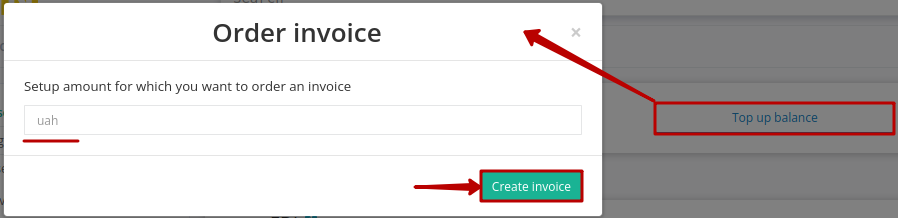
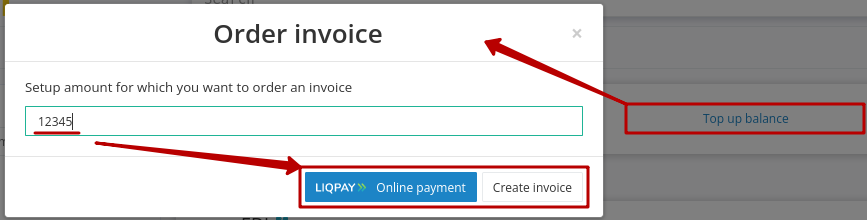
card_pay

diff --git a/docs/Personal_Cabinet/PCInstruction.rst b/docs/Personal_Cabinet/PCInstruction.rst
@@ -246,6 +246,8 @@ It is possible to make a purchase by paying an invoice (section `"Invoices" <htt
 
    The block will be removed if there are enough funds on the balance to cover the Additional Transaction / Tariff (after that it is possible to get 2-day access to services before an invoice payment again).
 
+   2 days of loyalty (access) are not activated for invoices issued as part of the automatic prolongation procedure.
+
 .. warning::
    When replenishing the balance, if its amount exceeds the cost of services / services that **"Awaiting payment"**, these funds are debited automatically!
 
@@ -398,6 +400,8 @@ The purchase of an additional tariff package is carried out through **"Cart"** (
 
    The block will be removed if there are enough funds on the balance to cover the Additional Transaction / Tariff (after that it is possible to get 2-day access to services before an invoice payment again).
 
+   2 days of loyalty (access) are not activated for invoices issued as part of the automatic prolongation procedure.
+
 .. _continue-tariff:
 
 **1.2.3.2 Prolong the tariff package**
@@ -423,6 +427,8 @@ Prolongation of the tariff package is carried out through **"Cart"** (more detai
 
    The block will be removed if there are enough funds on the balance to cover the Additional Transaction / Tariff (after that it is possible to get 2-day access to services before an invoice payment again).
 
+   2 days of loyalty (access) are not activated for invoices issued as part of the automatic prolongation procedure.
+
 **1.2.3.3 Edit the tariff package**
 """"""""""""""""""""""""""""""""""""""""""""""""""""""
 
@@ -446,6 +452,8 @@ Changing the tariff package of the service is carried out through **"Cart"** (mo
 
    The block will be removed if there are enough funds on the balance to cover the Additional Transaction / Tariff (after that it is possible to get 2-day access to services before an invoice payment again).
 
+   2 days of loyalty (access) are not activated for invoices issued as part of the automatic prolongation procedure.
+
 .. _balance:
 
 **1.2.4 Balance top up**
@@ -456,18 +464,29 @@ The balance panel displays the current balance (available for purchases of tarif
 .. image:: pics_New_balance_tariff/New_balance_tariff_03.png
    :align: center
 
-For **"Balance top up"** you need to specify the amount of replenishment and click **"Create invoice"**:
+For **"Balance top up"** you need to specify the amount of replenishment (uah) and choose the method: **"Online payment"** (LiqPay) or **"Create invoice"**:
 
 .. image:: pics_New_balance_tariff/New_balance_tariff_04.png
    :align: center
 
-Then the system automatically creates an invoice (more details in `"Invoices" <https://wiki.edin.ua/en/latest/Personal_Cabinet/PCInstruction.html#invoice>`__):
+.. tabs::
 
-.. image:: pics_PCInstruction/PCInstruction_008.png
-   :align: center
+   .. tab:: Online payment
 
-.. hint::
-   When you create an invoice, it is also automatically sent to email.
+      With **"Online payment"** You will be redirected to the page for entering card data or using Google Pay / Apple Pay / Privat24 services or You can pay in **"Another method"**, which is available on this page:
+
+      .. image:: pics_PCInstruction/PCInstruction_258.png
+         :align: center
+
+   .. tab:: Create invoice
+
+      When You **"Create invoice"** the system automatically creates an invoice (more details in `"Invoices" <https://wiki.edin.ua/en/latest/Personal_Cabinet/PCInstruction.html#invoice>`__):
+
+      .. image:: pics_PCInstruction/PCInstruction_008.png
+         :align: center
+
+      .. hint::
+         When you create an invoice, it is also automatically sent to email.
 
 **"History of transactions"** (has a convenient search) is kept for all transactions with the balance:
 
